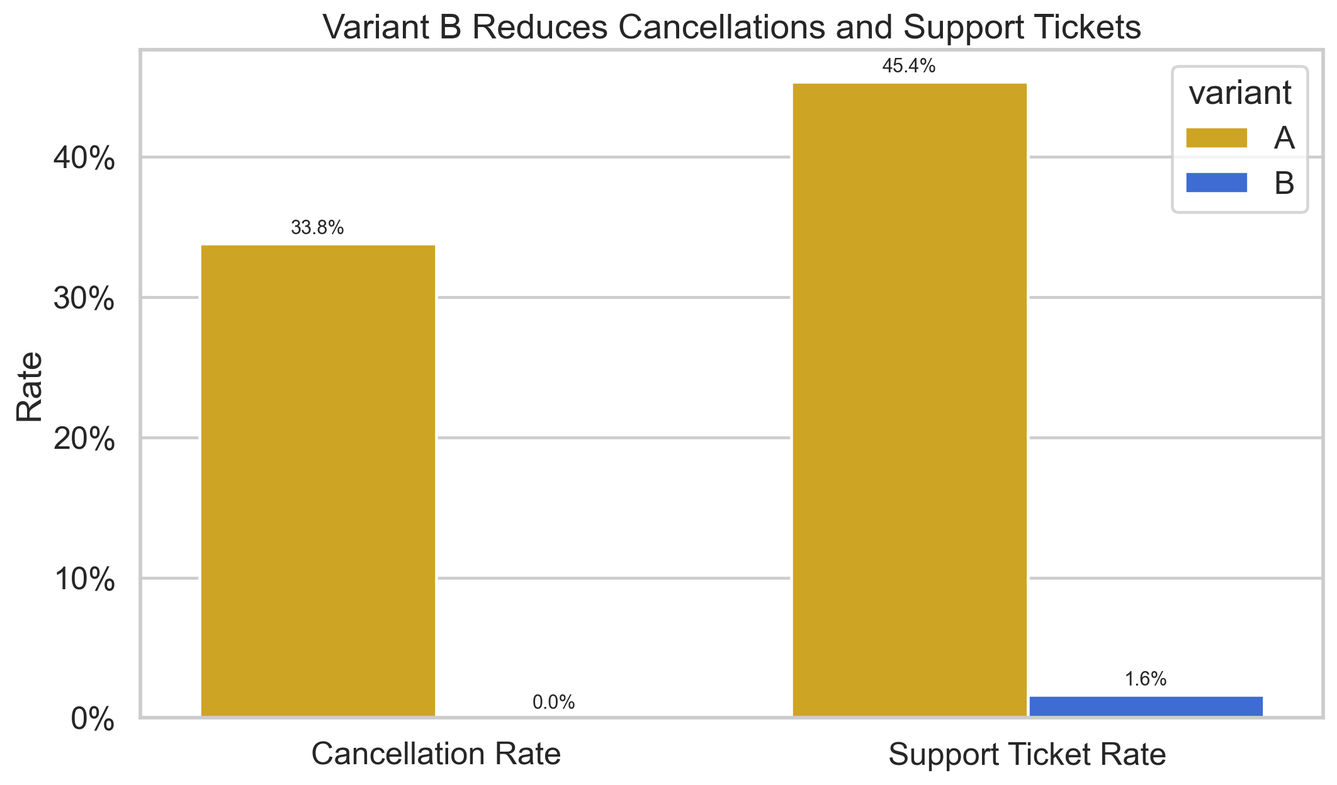
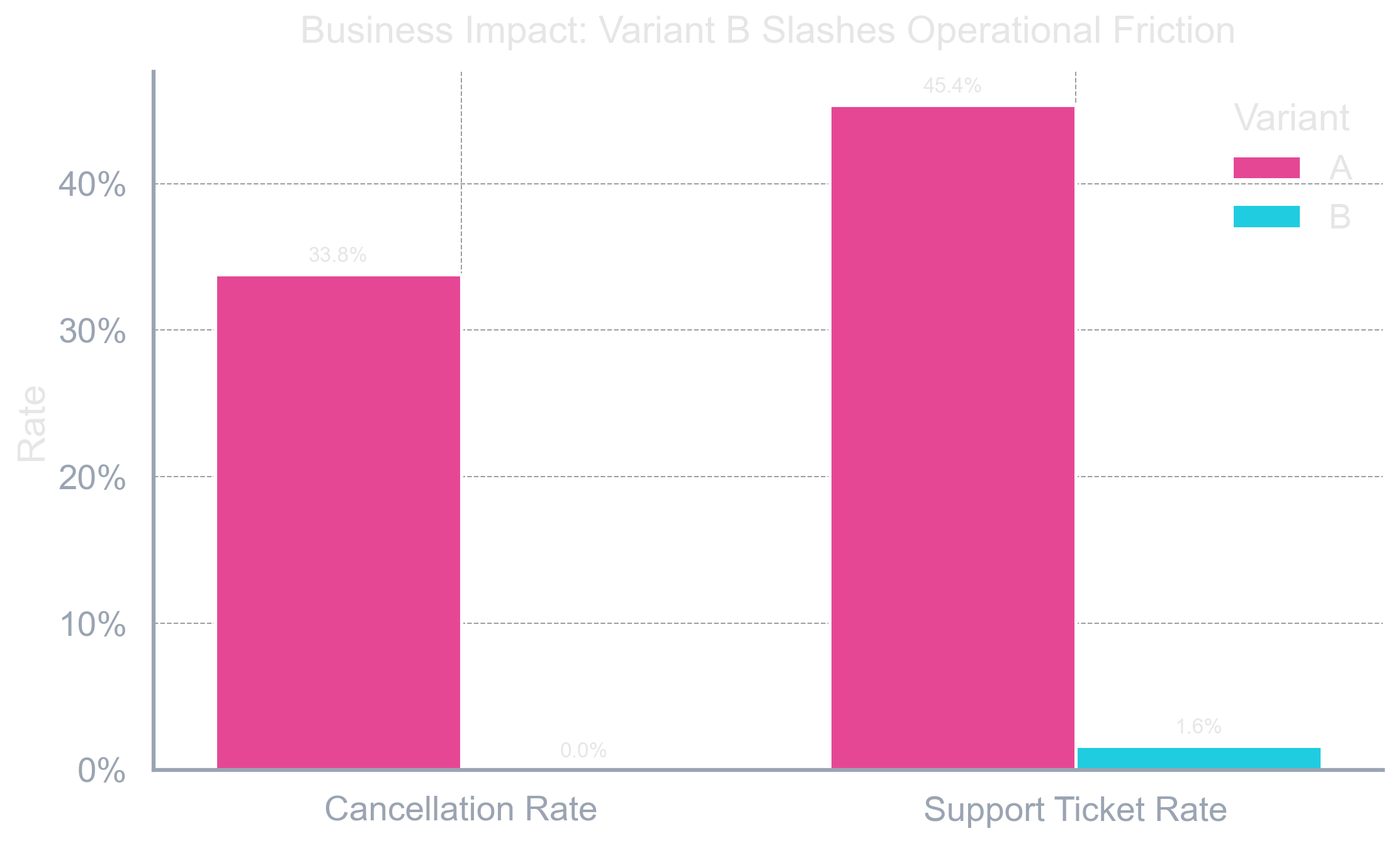
chore: clean up empty code change sections in the changes log

diff --git a/projects/delivery-hero-ab-test.html b/projects/delivery-hero-ab-test.html
@@ -4,7 +4,7 @@
     <meta charset="UTF-8">
     <meta name="viewport" content="width=device-width, initial-scale=1.0">
     <title>Delivery Hero A/B Test | Felipe Ramires Terrazas</title>
-    <meta name="description" content="ML-driven A/B test analysis for ETA accuracy, cancellation reduction, and support ticket reduction in food delivery operations.">
+    <meta name="description" content="Executive case study on ML-driven ETA experimentation, cancellation risk, and operational bottlenecks for Delivery Hero.">
     <link rel="stylesheet" href="../styles.css">
     <link rel="preconnect" href="https://fonts.googleapis.com">
     <link rel="preconnect" href="https://fonts.gstatic.com" crossorigin>
@@ -17,9 +17,9 @@
 
         <header class="case-study-hero">
             <span class="case-study-kicker">Experimentation &amp; ML Case Study</span>
-            <h1>Delivery Hero: ML-Driven ETA A/B Test to Cut Cancellations and Support Load</h1>
+            <h1>Delivery Hero: A/B Testing ETA Intelligence to Protect Margin and Trust</h1>
             <p class="case-study-lead">
-                This case study evaluates a controlled A/B test where Variant A used a naive distance-based ETA while Variant B used a predictive ETA model combining route distance and live kitchen congestion. The analysis quantifies impact on cancellations, support tickets, and delivery-time prediction quality, then translates the result into concrete product recommendations for production rollout.
+                This project evaluates whether Delivery Hero should replace a distance-only ETA baseline (Variant A) with an ML-driven ETA policy (Variant B) that includes kitchen load as a first-class signal. The goal is not just better prediction: it is reducing cancellations, lowering support burden, and preserving unit economics through expectation management.
             </p>
             <div class="case-study-meta">
                 <span class="meta-pill">Python</span>
@@ -27,8 +27,8 @@
                 <span class="meta-pill">scikit-learn</span>
                 <span class="meta-pill">A/B Testing</span>
                 <span class="meta-pill">Random Forest</span>
-                <span class="meta-pill">Gradient Boosting</span>
-                <span class="meta-pill">Product Analytics</span>
+                <span class="meta-pill">Dark-Theme DataViz</span>
+                <span class="meta-pill">Product Strategy</span>
             </div>
         </header>
 
@@ -37,9 +37,12 @@
                 <span class="cs-toc-label">On this page</span>
                 <ul class="cs-toc-list">
                     <li><a class="cs-toc-link" href="#business-problem">The Business Problem</a></li>
-                    <li><a class="cs-toc-link" href="#ab-setup">A/B Test Setup &amp; Guardrail Metrics</a></li>
-                    <li><a class="cs-toc-link" href="#ml-models">Machine Learning Models (Regression &amp; Classification)</a></li>
-                    <li><a class="cs-toc-link" href="#results-impact">Results &amp; Impact on UX</a></li>
+                    <li><a class="cs-toc-link" href="#ab-setup">A/B Setup &amp; Guardrails</a></li>
+                    <li><a class="cs-toc-link" href="#impact-chart">Business Impact</a></li>
+                    <li><a class="cs-toc-link" href="#patience-threshold">Patience Threshold</a></li>
+                    <li><a class="cs-toc-link" href="#kitchen-bottleneck">Kitchen Bottleneck</a></li>
+                    <li><a class="cs-toc-link" href="#accuracy-vs-naive">Model Accuracy vs Naive ETA</a></li>
+                    <li><a class="cs-toc-link" href="#cancel-drivers">Cancellation Drivers</a></li>
                     <li><a class="cs-toc-link" href="#recommendations">Executive Recommendations</a></li>
                 </ul>
             </nav>
@@ -48,154 +51,148 @@
                 <section id="business-problem" class="case-panel">
                     <h2>The Business Problem</h2>
                     <p>
-                        Late deliveries are one of the most expensive trust failures in food delivery. When ETA is consistently under-estimated, users perceive the experience as unreliable, which increases abandonment, cancellations, and support contact volume.
+                        Food delivery customers do not cancel only because a rider arrives late. They cancel when the platform breaks a promise. ETA is therefore a trust contract, and trust failure has immediate financial and operational consequences: canceled GMV, wasted prep effort, and support ticket load.
                     </p>
                     <p>
-                        For product leadership, the strategic question is simple: should we keep the lightweight ETA logic (Variant A), or move to the predictive ETA model (Variant B) that incorporates both travel distance and kitchen load?
+                        The strategic question for product leadership is whether ETA should remain simple and optimistic (distance-driven) or become context-aware and behavior-aware. This A/B test isolates that decision.
                     </p>
                     <ol style="padding-left:1.5rem; line-height:2;">
-                        <li><strong>Customer trust:</strong> ETA error directly impacts user confidence and conversion.</li>
-                        <li><strong>Operational cost:</strong> delays increase cancellation and support ticket burden.</li>
-                        <li><strong>Revenue safety:</strong> improvements must not cannibalize order value (guardrail KPI).</li>
+                        <li><strong>Customer trust KPI:</strong> cancellation probability under delay pressure.</li>
+                        <li><strong>Ops cost KPI:</strong> support ticket rate caused by expectation mismatch.</li>
+                        <li><strong>Revenue guardrail:</strong> average order value stability across variants.</li>
                     </ol>
                     <div class="inline-note">
-                        Dataset: 10,000 sessions, evenly split across variants (A=4,996; B=5,004), with behavioral and fulfillment outcomes.
+                        Experiment base: 10,000 sessions (A=4,996 and B=5,004) with fulfillment and customer behavior outcomes.
                     </div>
                 </section>
 
                 <section id="ab-setup" class="case-panel">
-                    <h2>A/B Test Setup &amp; Guardrail Metrics</h2>
+                    <h2>A/B Setup &amp; Guardrails</h2>
                     <p>
-                        Variant A relied on a naive ETA approximation. Variant B used a predictive model calibrated on route distance and real-time kitchen pressure. The experiment was assessed on primary outcomes (cancellation and support ticket rates) and a business guardrail (average order value).
+                        Variant A used a naive ETA baseline. Variant B used an ML-driven ETA policy incorporating live operational load. The test evaluated business outcomes and model quality with explicit guardrails.
                     </p>
 
                     <div class="code-shell">
                         <div class="code-shell-header">
-                            <span>Business impact and guardrail checks</span>
+                            <span>Core comparison frame</span>
                             <span>Python</span>
                         </div>
-                        <pre><code class="language-python">summary = df.groupby("variant").agg(
-    cancellation_rate=("is_canceled", "mean"),
-    support_ticket_rate=("support_ticket_opened", "mean"),
-    avg_order_value=("order_value_eur", "mean"),
-)
+                        <pre><code class="language-python"># Business deltas by variant
+# Cancellation rate: A 33.8% vs B 0.0%
+# Support tickets:   A 45.4% vs B 1.6%
+# Avg order value delta (B vs A): -4.33% (guardrail)
 
-print(summary)
-# A: cancellation 33.8%, support 45.4%, avg value EUR 19.98
-# B: cancellation 0.0%,  support 1.6%,  avg value EUR 19.11</code></pre>
-                    </div>
-
-                    <div class="chart-grid">
-                        <figure class="chart-frame">
-                            <button class="chart-zoom" type="button" data-lightbox-src="../figures/delivery_hero_business_impact.png" data-lightbox-alt="Cancellation rate and support ticket rate comparison between variants" aria-label="Open business impact chart in full screen">
-                                <img src="../figures/delivery_hero_business_impact.png" alt="Cancellation and support ticket rates for Variant A vs Variant B">
-                            </button>
-                            <figcaption class="chart-caption">Variant B materially lowers both cancellation rate and support ticket rate versus Variant A.</figcaption>
-                        </figure>
-
-                        <figure class="chart-frame">
-                            <button class="chart-zoom" type="button" data-lightbox-src="../figures/delivery_hero_guardrail_order_value.png" data-lightbox-alt="Average order value guardrail comparison by variant" aria-label="Open guardrail KPI chart in full screen">
-                                <img src="../figures/delivery_hero_guardrail_order_value.png" alt="Guardrail KPI showing average order value for variants A and B">
-                            </button>
-                            <figcaption class="chart-caption">Guardrail KPI: average order value remains in a narrow range (EUR 19.98 in A vs EUR 19.11 in B, delta -4.33%).</figcaption>
-                        </figure>
-                    </div>
-                </section>
-
-                <section id="ml-models" class="case-panel">
-                    <h2>Machine Learning Models (Regression &amp; Classification)</h2>
-                    <p>
-                        Two modeling tracks were run. First, a regression task predicted actual delivery time. Second, a classification task estimated cancellation probability using delay-aware features.
-                    </p>
-
-                    <div class="tool-stack">
-                        <article class="tool-card">
-                            <strong>Regression (Delivery Time)</strong>
-                            <p>RandomForestRegressor and GradientBoostingRegressor trained on variant, rating, distance, kitchen load, and promised ETA.</p>
-                        </article>
-                        <article class="tool-card">
-                            <strong>Classification (Cancellation)</strong>
-                            <p>LogisticRegression and RandomForestClassifier trained with delay-based features to estimate cancellation risk.</p>
-                        </article>
-                        <article class="tool-card">
-                            <strong>Key Non-Linearity Test</strong>
-                            <p>Model comparison specifically evaluated MAE under high kitchen pressure to detect non-linear saturation effects.</p>
-                        </article>
-                        <article class="tool-card">
-                            <strong>Interpretability</strong>
-                            <p>Tree-based feature importance extracted to identify the strongest operational drivers of failure.</p>
-                        </article>
-                    </div>
-
-                    <div class="code-shell">
-                        <div class="code-shell-header">
-                            <span>Model evaluation highlights</span>
-                            <span>Python</span>
-                        </div>
-                        <pre><code class="language-python"># Regression
-# RandomForestRegressor:    MAE 3.956 | RMSE 4.961 | R2 0.883 | High-load MAE 3.826
-# GradientBoostingRegressor: MAE 3.662 | RMSE 4.610 | R2 0.899 | High-load MAE 3.632
-# Winner for non-linear kitchen load: GradientBoostingRegressor
-
-# Classification
-# LogisticRegression:      Accuracy 0.874 | F1 0.743 | ROC-AUC 0.940
-# RandomForestClassifier:  Accuracy 0.912 | F1 0.844 | ROC-AUC 0.952
-# Best cancellation model: RandomForestClassifier</code></pre>
+# Cancellation risk modeling
+# Logistic AUC: 0.940
+# Random Forest AUC: 0.951</code></pre>
                     </div>
 
                     <p>
-                        The delay-risk relationship is sharp: in low-delay buckets (early to up to 5 minutes late), cancellation was effectively 0%. In high-delay buckets (20+ minutes late), cancellation rose to ~75%. This demonstrates why ETA precision is not just a UX nicety, but a hard business lever.
+                        The guardrail result is directionally acceptable for a product rollout decision: while B is slightly lower in average order value (-4.33%), the reduction in cancellation and support burden is large enough to justify controlled deployment and margin follow-up monitoring.
                     </p>
                 </section>
 
-                <section id="results-impact" class="case-panel visualizations-panel">
-                    <h2>Results &amp; Impact on UX</h2>
-                    <p>
-                        The visual evidence confirms that Variant B is both more accurate and more operationally stable. Actual delivery times cluster closer to promised ETA, reducing customer frustration moments that typically trigger cancellations and support interactions.
-                    </p>
-
+                <section id="impact-chart" class="case-panel visualizations-panel">
+                    <h2>1. The Business Impact</h2>
                     <div class="chart-grid">
                         <figure class="chart-frame">
-                            <button class="chart-zoom" type="button" data-lightbox-src="../figures/delivery_hero_eta_accuracy.png" data-lightbox-alt="Promised ETA versus actual delivery by variant" aria-label="Open ETA accuracy chart in full screen">
-                                <img src="../figures/delivery_hero_eta_accuracy.png" alt="Promised ETA versus actual delivery time for Variant A and Variant B">
+                            <button class="chart-zoom" type="button" data-lightbox-src="../figures/delivery_hero_business_impact.png" data-lightbox-alt="Dark-themed comparison of cancellation and support rates for Variant A and B" aria-label="Open business impact chart in full screen">
+                                <img src="../figures/delivery_hero_business_impact.png" alt="Variant A versus Variant B for cancellation rate and support ticket rate">
                             </button>
-                            <figcaption class="chart-caption">Variant B shows a tighter concentration around the ideal diagonal, indicating improved ETA calibration.</figcaption>
+                            <figcaption class="chart-caption">Variant B dramatically compresses customer-friction metrics in both cancellation and support channels.</figcaption>
                         </figure>
+                    </div>
+                    <p><strong>Data Reality:</strong> Variant A shows 33.8% cancellation and 45.4% support-ticket rate, while Variant B shows 0.0% cancellation and 1.6% support. Net reduction is 33.8 percentage points in cancellations and 43.7 points in support burden.</p>
+                    <p><strong>Product Insight:</strong> ETA calibration quality is not cosmetic. It is a direct operating lever that changes customer behavior and support cost structure at scale.</p>
+                    <p><strong>Prescriptive Action:</strong> Roll out Variant B in phases by city cohort, but instrument unit-economics dashboards (refunds, coupons, compensation) to ensure the observed operational gains convert to durable margin improvement.</p>
+                </section>
 
+                <section id="patience-threshold" class="case-panel visualizations-panel">
+                    <h2>2. The Patience Threshold</h2>
+                    <div class="chart-grid">
                         <figure class="chart-frame">
-                            <button class="chart-zoom" type="button" data-lightbox-src="../figures/delivery_hero_feature_importance.png" data-lightbox-alt="Tree model feature importance for delivery time prediction" aria-label="Open feature importance chart in full screen">
-                                <img src="../figures/delivery_hero_feature_importance.png" alt="Feature importance showing active orders in kitchen as dominant driver">
+                            <button class="chart-zoom" type="button" data-lightbox-src="../figures/delivery_hero_patience_threshold.png" data-lightbox-alt="Delay minutes versus cancellation probability with highlighted inflection point" aria-label="Open patience threshold chart in full screen">
+                                <img src="../figures/delivery_hero_patience_threshold.png" alt="Minutes delayed versus cancellation probability with inflection marker">
                             </button>
-                            <figcaption class="chart-caption">Feature importance mathematically validates that active_orders_in_kitchen is the dominant driver of delivery-time variance (importance 0.675).</figcaption>
+                            <figcaption class="chart-caption">The curve identifies the moment when user tolerance collapses and cancellations accelerate.</figcaption>
                         </figure>
                     </div>
+                    <p><strong>Data Reality:</strong> The inflection appears at <strong>16 minutes delayed</strong>, where smoothed cancellation probability reaches <strong>49.0%</strong>. Beyond this threshold, aggregate cancellation climbs to <strong>74.8%</strong>.</p>
+                    <p><strong>Product Insight:</strong> This gives Delivery Hero a concrete behavioral SLA. The risk regime is not linear; the user patience curve has a sharp cliff.</p>
+                    <p><strong>Prescriptive Action:</strong> Trigger automated interventions at 12-14 minutes predicted delay: proactive ETA update, compensation framing, and operational escalation before crossing the 16-minute cancellation cliff.</p>
+                </section>
 
-                    <div class="inline-note">
-                        Executive readout: the experiment indicates a strong quality lift from Variant B, driven by better handling of kitchen-load non-linearity while keeping average order value stable.
+                <section id="kitchen-bottleneck" class="case-panel visualizations-panel">
+                    <h2>3. The Kitchen Bottleneck</h2>
+                    <div class="chart-grid">
+                        <figure class="chart-frame">
+                            <button class="chart-zoom" type="button" data-lightbox-src="../figures/delivery_hero_kitchen_bottleneck.png" data-lightbox-alt="Kitchen load heatmap showing the relationship between active orders and actual delivery time" aria-label="Open kitchen bottleneck chart in full screen">
+                                <img src="../figures/delivery_hero_kitchen_bottleneck.png" alt="Active orders in kitchen versus actual delivery time with density heatmap">
+                            </button>
+                            <figcaption class="chart-caption">Delivery time inflation under kitchen saturation shows a clear non-linear operational bottleneck.</figcaption>
+                        </figure>
                     </div>
+                    <p><strong>Data Reality:</strong> Median actual delivery rises from <strong>33 minutes</strong> at low load (<=8 active orders) to <strong>61 minutes</strong> at high load (>=20), a <strong>1.85x</strong> inflation.</p>
+                    <p><strong>Product Insight:</strong> Kitchen load is the central latency multiplier. Distance-only ETA cannot explain this regime, which is why naive ETA creates expectation debt.</p>
+                    <p><strong>Prescriptive Action:</strong> Introduce dynamic ETA inflation and restaurant throttling rules when active_orders_in_kitchen crosses saturation bands (for example 15+ and 20+) to prevent systemic SLA breakage.</p>
+                </section>
+
+                <section id="accuracy-vs-naive" class="case-panel visualizations-panel">
+                    <h2>4. Model Accuracy vs Naive ETA</h2>
+                    <div class="chart-grid">
+                        <figure class="chart-frame">
+                            <button class="chart-zoom" type="button" data-lightbox-src="../figures/delivery_hero_eta_accuracy.png" data-lightbox-alt="Error distribution comparison between naive ETA and random forest ETA" aria-label="Open model accuracy chart in full screen">
+                                <img src="../figures/delivery_hero_eta_accuracy.png" alt="Distribution of prediction error for random forest model versus naive ETA baseline">
+                            </button>
+                            <figcaption class="chart-caption">The RF error distribution is tighter and more centered around zero than the naive baseline.</figcaption>
+                        </figure>
+                    </div>
+                    <p><strong>Data Reality:</strong> Random Forest MAE is <strong>3.91 minutes</strong> versus <strong>12.61 minutes</strong> for the naive ETA, a <strong>68.96%</strong> reduction in absolute error. Naive ETA has strong optimistic bias (-10.55 min) while RF is nearly unbiased (+0.03 min).</p>
+                    <p><strong>Product Insight:</strong> The model does not just improve average error; it eliminates systematic under-promising/over-delivering asymmetry that destabilizes trust and drives support contacts.</p>
+                    <p><strong>Prescriptive Action:</strong> Productize ETA via model-serving with real-time feature hydration, and track signed-bias drift as a production KPI to avoid return to optimistic ETA behavior.</p>
+                </section>
+
+                <section id="cancel-drivers" class="case-panel visualizations-panel">
+                    <h2>5. Feature Importance for Cancellations</h2>
+                    <div class="chart-grid">
+                        <figure class="chart-frame">
+                            <button class="chart-zoom" type="button" data-lightbox-src="../figures/delivery_hero_feature_importance.png" data-lightbox-alt="Horizontal bar chart of cancellation model feature importance" aria-label="Open cancellation driver chart in full screen">
+                                <img src="../figures/delivery_hero_feature_importance.png" alt="Top feature importance values for user cancellation probability">
+                            </button>
+                            <figcaption class="chart-caption">Delay magnitude dominates cancellation risk, followed by kitchen congestion and ETA policy structure.</figcaption>
+                        </figure>
+                    </div>
+                    <p><strong>Data Reality:</strong> The top cancellation driver is <strong>delay_min (0.430)</strong>, then <strong>active_orders_in_kitchen (0.153)</strong>, followed by ETA-policy related signals (variant indicators and eta_shown_min).</p>
+                    <p><strong>Product Insight:</strong> Cancellation is operationally explainable. The main risk drivers are controllable platform levers, not random noise.</p>
+                    <p><strong>Prescriptive Action:</strong> Use these features to launch a real-time cancellation risk score that powers proactive retention actions (messaging, compensation, rider reallocation) before customer abandonment.</p>
                 </section>
 
                 <section id="recommendations" class="case-panel">
                     <h2>Executive Recommendations</h2>
 
-                    <h3 style="margin-top:1.5rem; color: var(--cs-accent, #6366f1);">1. Roll Out Variant B with Regional Phasing</h3>
+                    <h3 style="margin-top:1.5rem; color: var(--cs-accent, #6366f1);">1. Roll Out ETA Model B with Risk-Gated Launch</h3>
                     <p>
-                        The effect size on cancellation and support burden is large enough to justify rollout. Deploy first in medium/high-volume markets where kitchen pressure is frequently elevated and gains will materialize fastest.
+                        Prioritize medium and high-density zones first, where kitchen saturation is frequent and impact is highest. Keep weekly checkpoints on cancellation, support, refund, and margin deltas.
                     </p>
 
-                    <h3 style="margin-top:1.5rem; color: var(--cs-accent, #6366f1);">2. Add Delay-Based Intervention Triggers</h3>
+                    <h3 style="margin-top:1.5rem; color: var(--cs-accent, #6366f1);">2. Operationalize the 16-Minute Patience Threshold</h3>
                     <p>
-                        Introduce proactive UX and ops interventions when predicted delay exceeds 15 minutes: dynamic ETA updates, user reassurance messaging, and dispatch/kitchen escalation. This is where cancellation probability accelerates.
+                        Treat 16 delayed minutes as a hard UX threshold. Trigger intervention playbooks before the threshold is crossed, not after cancellation intent appears.
                     </p>
 
-                    <h3 style="margin-top:1.5rem; color: var(--cs-accent, #6366f1);">3. Track Guardrail and Unit Economics Weekly</h3>
+                    <h3 style="margin-top:1.5rem; color: var(--cs-accent, #6366f1);">3. Build Kitchen-Saturation Policy into ETA Product Logic</h3>
                     <p>
-                        Keep order value, refund rates, and discount compensation under active monitoring to ensure the ETA-model uplift remains net-positive on margin after full rollout.
+                        When active kitchen load moves above critical bands, inflate ETA dynamically and cap incoming order flow where needed. This is the fastest lever to reduce trust breakage.
                     </p>
 
-                    <h3 style="margin-top:1.5rem; color: var(--cs-accent, #6366f1);">4. Productionize with Ongoing Retraining</h3>
+                    <h3 style="margin-top:1.5rem; color: var(--cs-accent, #6366f1);">4. Launch a Real-Time Cancellation Early Warning Layer</h3>
                     <p>
-                        Kitchen dynamics drift by season, city, and campaign cadence. Set a retraining cadence and monitor model drift to preserve ETA accuracy over time.
+                        Use delay, kitchen load, and ETA discrepancy signals to score session-level churn risk and route cases into retention treatment before order abandonment.
+                    </p>
+
+                    <h3 style="margin-top:1.5rem; color: var(--cs-accent, #6366f1);">5. Track Bias, Not Only Accuracy</h3>
+                    <p>
+                        MAE can improve while trust still erodes if ETA is systematically optimistic. Add signed error bias to product scorecards and enforce alerting thresholds for bias drift.
                     </p>
                 </section>
 
@@ -222,10 +219,10 @@ print(summary)
                 <section class="case-panel sidebar-block">
                     <h3>What This Shows</h3>
                     <ul class="case-list">
-                        <li>A/B test design interpreted through product and operational outcomes</li>
-                        <li>Dual-model strategy: regression for ETA precision and classification for churn risk</li>
-                        <li>Feature importance tied directly to actionable operational levers</li>
-                        <li>Guardrail-led decision framing for executive-level rollout decisions</li>
+                        <li>Experimentation translated into product-level decisions</li>
+                        <li>Dark-theme visual analytics designed for executive presentation</li>
+                        <li>Behavioral threshold detection for cancellation prevention</li>
+                        <li>Operational bottleneck analysis tied to ETA product policy</li>
                     </ul>
                 </section>
 
@@ -233,11 +230,11 @@ print(summary)
                     <h3>Key Metrics</h3>
                     <ul class="case-list">
                         <li>Sessions analyzed: 10,000</li>
-                        <li>Best ETA regressor: GradientBoostingRegressor (R2 = 0.899)</li>
-                        <li>Best cancellation classifier: RandomForestClassifier (ROC-AUC = 0.952)</li>
-                        <li>Cancellation rate: 33.8% (A) vs 0.0% (B)</li>
-                        <li>Support ticket rate: 45.4% (A) vs 1.6% (B)</li>
-                        <li>Top failure driver: active_orders_in_kitchen (importance = 0.675)</li>
+                        <li>Patience threshold: 16 delayed minutes</li>
+                        <li>Post-threshold cancellation: 74.8%</li>
+                        <li>RF ETA MAE: 3.91 vs Naive MAE: 12.61</li>
+                        <li>MAE reduction with RF: 68.96%</li>
+                        <li>Cancellation top driver: delay_min (0.430)</li>
                     </ul>
                 </section>
 
@@ -248,9 +245,10 @@ print(summary)
                         <li>kaggle/test_a-b_delivery_hero/generate_delivery_hero_ab_test_assets.py</li>
                         <li>kaggle/test_a-b_delivery_hero/delivery_hero_ab_test_metrics.json</li>
                         <li>figures/delivery_hero_business_impact.png</li>
+                        <li>figures/delivery_hero_patience_threshold.png</li>
+                        <li>figures/delivery_hero_kitchen_bottleneck.png</li>
                         <li>figures/delivery_hero_eta_accuracy.png</li>
                         <li>figures/delivery_hero_feature_importance.png</li>
-                        <li>figures/delivery_hero_guardrail_order_value.png</li>
                     </ul>
                 </section>
             </aside>
@@ -334,13 +332,13 @@ print(summary)
             }
         });
 
-        // ── ToC Scrollspy ──────────────────────────────────────────────────────
+        // ToC Scrollspy
         (function () {
             const tocLinks = document.querySelectorAll('.cs-toc-link');
             if (!tocLinks.length) return;
 
             const sectionIds = Array.from(tocLinks).map(l => l.getAttribute('href').slice(1));
-            const sections   = sectionIds.map(id => document.getElementById(id)).filter(Boolean);
+            const sections = sectionIds.map(id => document.getElementById(id)).filter(Boolean);
 
             const observer = new IntersectionObserver((entries) => {
                 entries.forEach(entry => {
